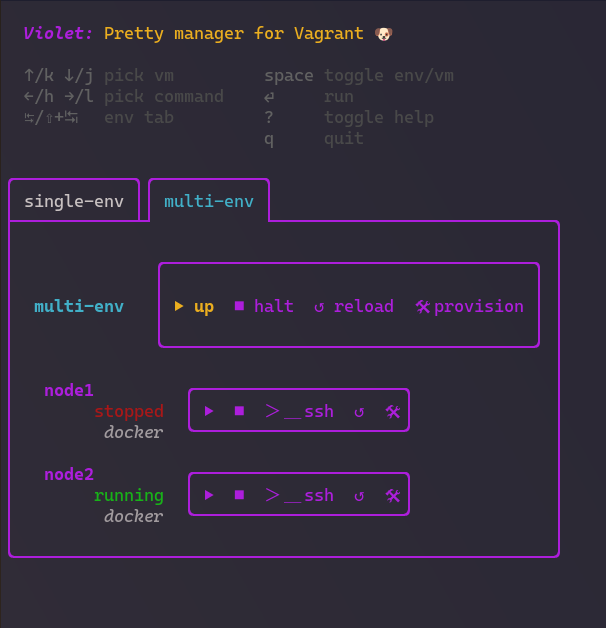
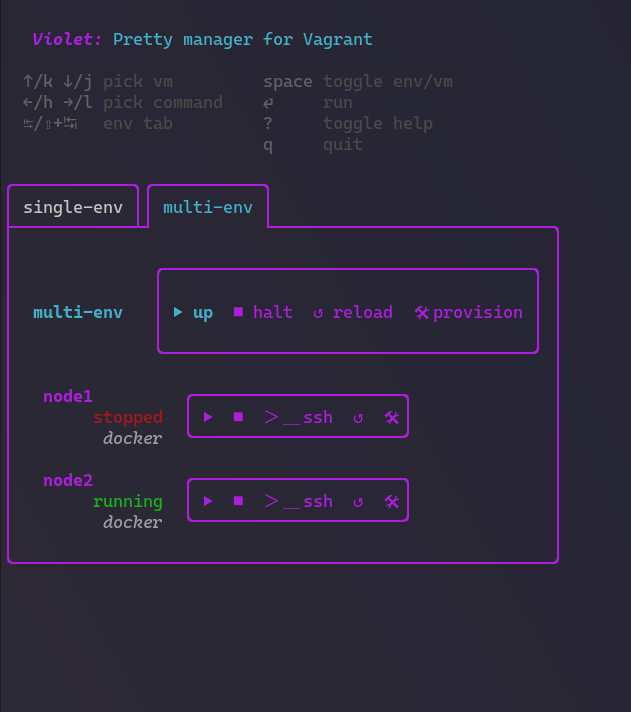
fix: Use two colors instead of three

diff --git a/internal/app/styles.go b/internal/app/styles.go
@@ -13,8 +13,7 @@ var theme = defaultDarkTheme
 // Tweak these for a different palette
 var (
 	primaryColor   = theme.Purple()
-	secondaryColor = theme.Yellow()
-	accentColor    = theme.Cyan()
+	secondaryColor = theme.Cyan()
 	textColor      = theme.Fg()
 
 	inactiveTabBorder = tabBorderWithBottom("┴", "─", "┴")
@@ -37,7 +36,8 @@ var (
 	titleStyle = lipgloss.NewStyle().
 			Bold(true).
 			Italic(true).
-			Foreground(primaryColor)
+			Foreground(primaryColor).
+			Padding(0, 1)
 	greeterStyle = lipgloss.NewStyle().
 			Foreground(secondaryColor)
 
@@ -49,7 +49,7 @@ var (
 				Foreground(textColor)
 	activeTabStyle = inactiveTabStyle.Copy().
 			Border(activeTabBorder, true).
-			Foreground(accentColor)
+			Foreground(secondaryColor)
 	tabGapStyle = inactiveTabStyle.Copy().
 			Border(gapBorder)
 	tabWindowStyle = lipgloss.NewStyle().
@@ -65,6 +65,8 @@ var (
 			Foreground(theme.BrightRed()).
 			Bold(true)
 )
+
+var verbs = []string{"Running", "Executing", "Performing", "Invoking", "Launching", "Casting"}
 
 func tabBorderWithBottom(left, middle, right string) lipgloss.Border {
 	border := lipgloss.RoundedBorder()
@@ -97,7 +99,7 @@ var (
 	selectedCardStyle = defaultCardStyle.Copy().
 				BorderLeft(true).
 				Border(lipgloss.RoundedBorder(), false, false, false, true).
-				BorderForeground(accentColor).
+				BorderForeground(secondaryColor).
 				PaddingLeft(1)
 
 	envCardTitleStyle = cardTitleStyle.Copy().
@@ -105,5 +107,5 @@ var (
 				Width(textWrap)
 	selectedEnvCardStyle = envCardTitleStyle.Copy().
 				Bold(true).
-				Foreground(accentColor)
+				Foreground(secondaryColor)
 )

diff --git a/internal/app/view.go b/internal/app/view.go
@@ -2,22 +2,14 @@ package app
 
 import (
 	"fmt"
-	"math/rand"
 
 	"github.com/charmbracelet/lipgloss"
 )
 
-func randomEmoji() string {
-	emojis := []rune("🍦🧋🍡🤠👾😭🦊🐯🦆🥨🎏🍔🍒🍥🎮📦🦁🐶🐸🍕🥐🧲🚒🥇🏆🌽")
-	return string(emojis[rand.Intn(len(emojis))])
-}
-
-var verbs = []string{"Running", "Executing", "Performing", "Invoking", "Launching", "Casting"}
-
 func (v Violet) View() (view string) {
 	// Title view area
-	title := titleStyle.Render("Violet: ")
-	greeter := greeterStyle.Render("Pretty manager for Vagrant " + randomEmoji())
+	title := titleStyle.Render("Violet:")
+	greeter := greeterStyle.Render("Pretty manager for Vagrant")
 	titleGreeter := title + greeter
 	view += lipgloss.NewStyle().Margin(marginVertical, marginHorizontal).Render(titleGreeter)
 

diff --git a/internal/app/spinner.go b/internal/app/spinner.go
@@ -26,7 +26,7 @@ var (
 			Italic(true)
 	spinnerCommandStyle = spinnerStyle.Copy().
 				Bold(true).
-				Foreground(accentColor)
+				Foreground(secondaryColor)
 )
 
 type currentSpinner struct {
